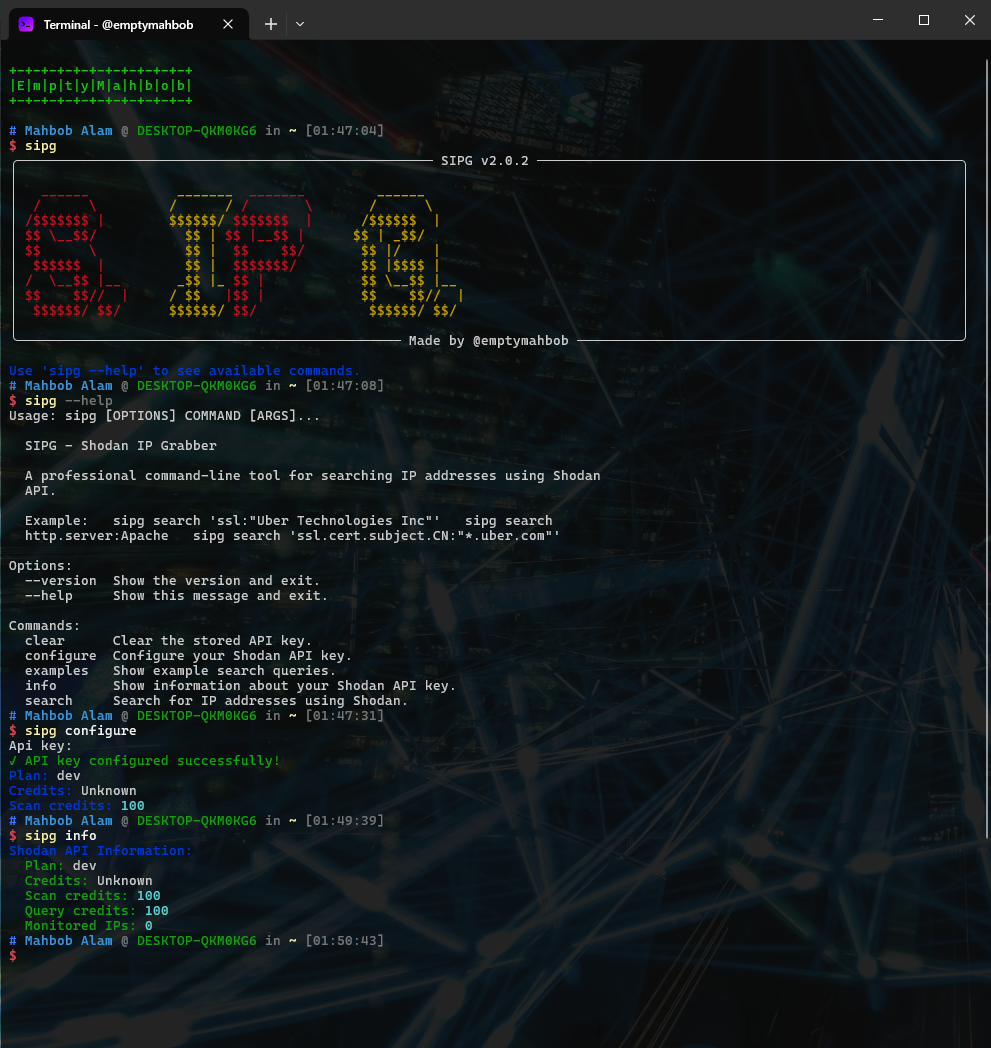
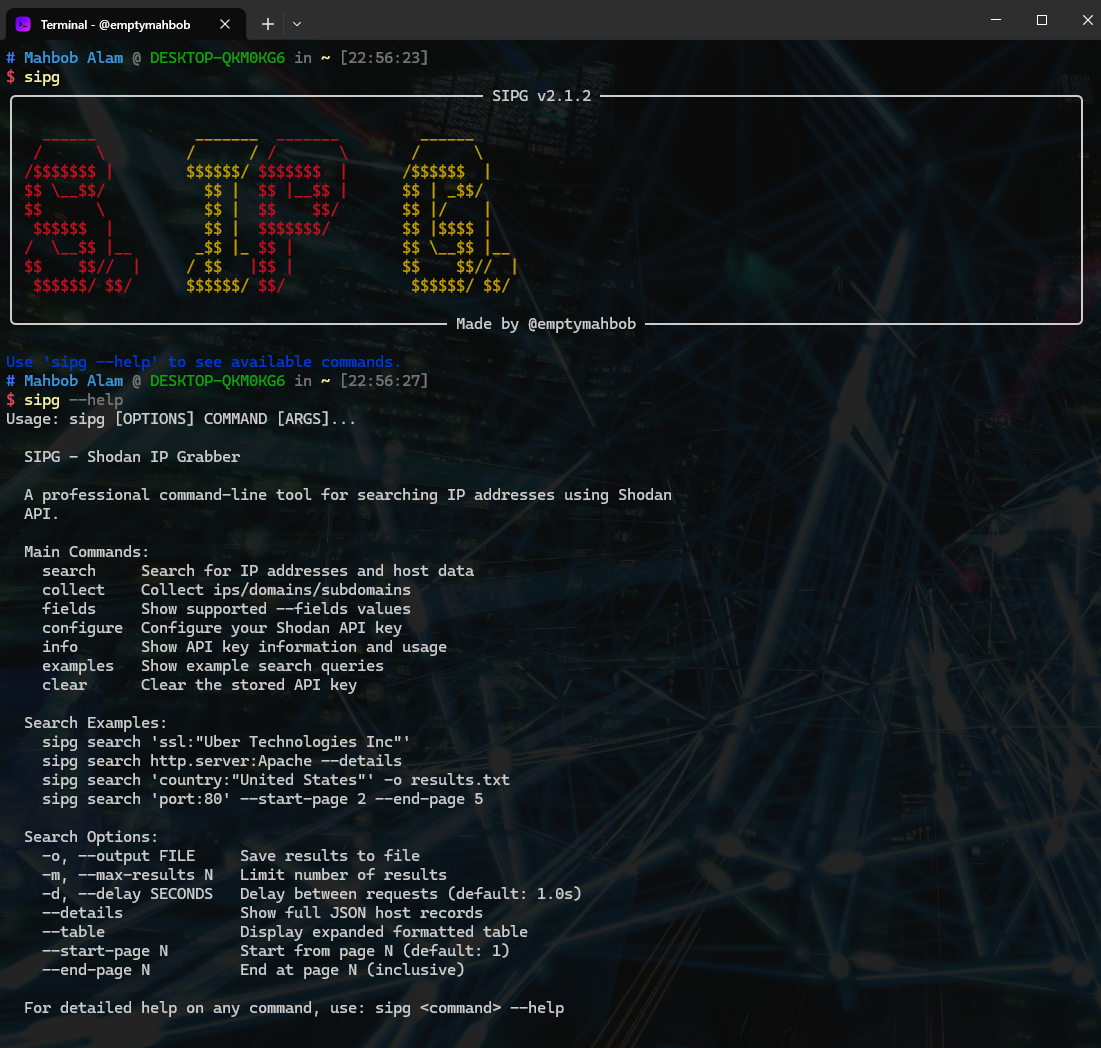
Update release summary, core fix, and assets
Refresh v2.1.2 release notes, keep important core indentation fix, and include updated banner/search result images.

Made-with: Cursor

diff --git a/sipg/core.py b/sipg/core.py
@@ -30,7 +30,7 @@ class ShodanAPIError(Exception):
 
 class ShodanIPGrabber:
     """Main class for Shodan IP grabbing functionality."""
-
+    
     DETAIL_FIELD_ALIASES: Dict[str, str] = {
         "ip": "ip_str",
         "ip_str": "ip_str",
@@ -87,7 +87,7 @@ class ShodanIPGrabber:
         api_min_interval: Optional[float] = None,
     ):
         """Initialize the Shodan IP Grabber.
-
+        
         Args:
             config: Configuration object. If None, creates a new one.
             api_min_interval: Minimum seconds between api.shodan.io requests (0 = no cap).
@@ -639,7 +639,7 @@ class ShodanIPGrabber:
                 return response.json()
             except ValueError as e:
                 raise ShodanAPIError(f"Invalid JSON response: {e}")
-
+    
         if last_error:
             msg = str(last_error).replace(self.config.get_api_key() or "", "<api_key>")
             raise ShodanAPIError(f"API request failed: {msg}")
@@ -654,17 +654,17 @@ class ShodanIPGrabber:
         end_page: Optional[int] = None,
     ) -> Iterator[str]:
         """Search for IP addresses using Shodan.
-
+        
         Args:
             query: Search query string.
             max_results: Maximum number of results to return. If None, returns all.
             delay: Delay between API requests in seconds.
             start_page: The first page to fetch (1-based).
             end_page: The last page to fetch (inclusive). If None, fetches up to the last available page.
-
+            
         Yields:
             IP addresses found.
-
+            
         Raises:
             ShodanAPIError: If the API request fails.
         """
@@ -675,38 +675,38 @@ class ShodanIPGrabber:
             )
 
         params = {"key": api_key, "query": query, "page": 1}
-
+        
         try:
             initial_response = self._make_request(
                 "https://api.shodan.io/shodan/host/search", params
             )
             total_results = initial_response.get("total", 0)
-
+            
             if total_results == 0:
                 self.console.print(
                     "[yellow]No results found for the given query.[/yellow]"
                 )
                 return
-
+            
             self.console.print(f"[green]Found {total_results} total results[/green]")
-
+            
             results_per_page = 100
             total_pages = (total_results + results_per_page - 1) // results_per_page
-
+            
             if max_results:
                 total_pages = min(
                     total_pages,
                     (max_results + results_per_page - 1) // results_per_page,
                 )
-
+            
             # Apply custom page range
             first_page = max(1, start_page)
             last_page = min(end_page if end_page else total_pages, total_pages)
             if first_page > last_page:
                 return
-
+            
             ip_count = 0
-
+            
             with Progress(
                 SpinnerColumn(),
                 TextColumn("[progress.description]{task.description}"),
@@ -715,7 +715,7 @@ class ShodanIPGrabber:
                 task = progress.add_task(
                     "Searching IPs...", total=last_page - first_page + 1
                 )
-
+                
                 for page in range(first_page, last_page + 1):
                     progress.update(
                         task, description=f"Searching page {page}/{last_page}"
@@ -739,13 +739,13 @@ class ShodanIPGrabber:
             raise
         except Exception as e:
             raise ShodanAPIError(f"Unexpected error: {e}")
-
+    
     def _is_valid_ipv4(self, ip: str) -> bool:
         """Check if an IP address is a valid IPv4 address.
-
+        
         Args:
             ip: IP address string.
-
+            
         Returns:
             True if valid IPv4, False otherwise.
         """
@@ -753,7 +753,7 @@ class ShodanIPGrabber:
             return ipaddress.ip_address(ip).version == 4
         except ValueError:
             return False
-
+    
     def search_with_details(
         self,
         query: str,
@@ -763,14 +763,14 @@ class ShodanIPGrabber:
         end_page: Optional[int] = None,
     ) -> Iterator[Dict[str, Any]]:
         """Search for IP addresses with additional details.
-
+        
         Args:
             query: Search query string.
             max_results: Maximum number of results to return.
             delay: Delay between API requests in seconds.
             start_page: The first page to fetch (1-based).
             end_page: The last page to fetch (inclusive). If None, fetches up to the last available page.
-
+            
         Yields:
             Dictionary containing IP and additional details.
         """
@@ -781,38 +781,38 @@ class ShodanIPGrabber:
             )
 
         params = {"key": api_key, "query": query, "page": 1}
-
+        
         try:
             initial_response = self._make_request(
                 "https://api.shodan.io/shodan/host/search", params
             )
             total_results = initial_response.get("total", 0)
-
+            
             if total_results == 0:
                 self.console.print(
                     "[yellow]No results found for the given query.[/yellow]"
                 )
                 return
-
+            
             self.console.print(f"[green]Found {total_results} total results[/green]")
-
+            
             results_per_page = 100
             total_pages = (total_results + results_per_page - 1) // results_per_page
-
+            
             if max_results:
                 total_pages = min(
                     total_pages,
                     (max_results + results_per_page - 1) // results_per_page,
                 )
-
+            
             # Apply custom page range
             first_page = max(1, start_page)
             last_page = min(end_page if end_page else total_pages, total_pages)
             if first_page > last_page:
                 return
-
+            
             result_count = 0
-
+            
             with Progress(
                 SpinnerColumn(),
                 TextColumn("[progress.description]{task.description}"),
@@ -821,7 +821,7 @@ class ShodanIPGrabber:
                 task = progress.add_task(
                     "Searching details...", total=last_page - first_page + 1
                 )
-
+                
                 for page in range(first_page, last_page + 1):
                     progress.update(
                         task, description=f"Searching page {page}/{last_page}"
@@ -845,19 +845,19 @@ class ShodanIPGrabber:
             raise
         except Exception as e:
             raise ShodanAPIError(f"Unexpected error: {e}")
-
+    
     def display_results_table(
         self, results: List[Dict[str, Any]], fields: Optional[List[str]] = None
     ) -> None:
         """Display results in a formatted table.
-
+        
         Args:
             results: List of result dictionaries.
         """
         if not results:
             self.console.print("[yellow]No results to display.[/yellow]")
             return
-
+        
         normalized_fields = self._normalize_fields(fields) or self.DEFAULT_TABLE_FIELDS
         header_map = {
             "ip_str": "IP",
@@ -880,21 +880,21 @@ class ShodanIPGrabber:
         table = Table(title="Shodan Search Results")
         for field in normalized_fields:
             table.add_column(header_map.get(field, field.upper()))
-
+        
         for result in results:
             row = [
                 self._get_detail_field_value(result, field)
                 for field in normalized_fields
             ]
             table.add_row(*row)
-
+        
         self.console.print(table)
-
+    
     def save_results_to_file(
         self, results: List[str], filename: str, add_protocol: bool = False
     ) -> None:
         """Save results to a file.
-
+        
         Args:
             results: List of IP addresses.
             filename: Output filename.
@@ -946,7 +946,7 @@ class ShodanIPGrabber:
             self.console.print(f"[green]Results saved to {filename}[/green]")
         except IOError as e:
             self.console.print(f"[red]Failed to save results: {e}[/red]")
-
+    
     def save_detailed_results_to_file(
         self,
         results: List[Dict[str, Any]],
@@ -984,16 +984,16 @@ class ShodanIPGrabber:
 
     def get_api_info(self) -> Dict[str, Any]:
         """Get information about the current API key.
-
+        
         Returns:
             Dictionary containing API information.
-
+            
         Raises:
             ShodanAPIError: If the API request fails.
         """
         api_key = self.config.get_api_key()
         if not api_key:
             raise ShodanAPIError("No API key configured.")
-
+        
         params = {"key": api_key}
         return self._make_request("https://api.shodan.io/api-info", params)

diff --git a/RELEASE_SUMMARY.md b/RELEASE_SUMMARY.md
@@ -1,51 +1,56 @@
-# SIPG v2.0.2 Release Summary
+# SIPG v2.1.2 Release Summary
 
-## 🎯 Release Goal
-Fix CLI argument parsing issues that prevented users from using complex Shodan queries with spaces and special characters.
+## Release Goal
+Deliver a major usability and capability upgrade so SIPG works strongly in both API-key and no-key workflows, with better collection options, output control, and reliability.
 
-## ✅ Completed Tasks
+## Highlights
+- Added dual-mode operation: `api` mode and `free` mode.
+- Upgraded free mode to deep, ipfinder-style collection behavior for larger no-key IP collection.
+- Added dedicated `collect` command with `txt`, `json`, and `csv` export formats.
+- Added field customization support with `--fields` and a new `fields` helper command.
+- Simplified command usage with short aliases and short flags.
 
-### 1. **Fixed Core Issue**
-- **Problem**: `sipg search "ssl:"Uber Technologies Inc""` was failing with "Got unexpected extra arguments"
-- **Root Cause**: CLI was using `nargs=-1` which split quoted strings into multiple arguments
-- **Solution**: Changed to `type=str` to handle entire query as single string
-- **Result**: ✅ All complex queries now work perfectly
+## Key Features Added
+- New `sipg collect` command for collecting:
+  - `ips`
+  - `domains`
+  - `subdomains`
+  - `all`
+- New `--fields` support:
+  - `search`: customize table columns and CSV schema.
+  - `collect`: customize CSV schema (`type,value`).
+- New `sipg fields` command:
+  - Human-readable field list.
+  - `--json` machine-readable output for scripts/automation.
+- Added short command aliases:
+  - `s`, `c`, `cfg`, `i`, `ex`, `cl`, `fs`
+- Added short flag forms for common options (for faster CLI usage).
 
-### 2. **Updated Documentation**
-- Fixed all examples in CLI help text
-- Updated `examples` command output
-- Corrected main CLI docstring
-- Updated version numbers across all files
+## Reliability and Behavior Improvements
+- Improved no-key facet parsing for current Shodan HTML structures.
+- Added stronger retry/backoff behavior for transient network/API issues.
+- Better handling and messaging for `401`, `403`, `429`, and `503` responses.
+- Free deep IP collection now streams results progressively.
+- Removed noisy free-mode progress text; output is cleaner and more automation-friendly.
+- Restored concise total result summaries (while keeping `--silent` truly minimal).
 
-### 3. **Version Management**
-- Updated version to 2.0.2 in:
-  - `sipg/__init__.py`
-  - `sipg/cli.py` (version option and banner)
-  - `setup.py`
-  - `pyproject.toml`
-  - `CHANGELOG.md`
+## UX and Documentation
+- Simplified mode choices to `api` and `free` (`free` now covers deep behavior).
+- Improved `search --details` and `search --table` output usefulness.
+- README fully updated with new commands, aliases, options, and examples.
+- `.gitignore` updated to exclude local/dev/output artifacts more safely.
 
-### 4. **Testing**
-- ✅ Tested `sipg search 'ssl:"Uber Technologies Inc"'` - Found 41 results
-- ✅ Tested `sipg search 'ssl.cert.subject.CN:"*.uber.com"'` - Found 36 results
-- ✅ Tested `sipg search http.server:Apache` - No results but no errors
-- ✅ All examples now show correct syntax
+## Version and Packaging
+- Version bumped to `2.1.2` in project metadata and CLI output.
+- Build validation completed:
+  - `twine check dist/*` passed for wheel and sdist.
+  - Fresh virtual environment install from wheel succeeded.
+  - CLI smoke checks (`--version`, `--help`, alias help, `fields --json`) succeeded.
 
-### 5. **GitHub Release**
-- ✅ Committed all changes
-- ✅ Created git tag v2.0.2
-- ✅ Pushed to GitHub
-- ✅ Created release notes
+## Testing
+- Test coverage updated for new implementations and behavior paths, including CLI/config changes tied to this release.
 
-## 📦 Build Status
-- ✅ Successfully built sdist and wheel
-- ✅ Ready for PyPI upload
-- ✅ Ready for Test PyPI upload
-
-## 🚀 Next Steps
-1. Upload to Test PyPI (when ready)
-2. Upload to PyPI (when ready)
-3. Create GitHub release using the provided release notes
-
-## 🎉 Impact
-Users can now use any Shodan query syntax without CLI parsing errors, making the tool much more powerful and user-friendly.
+## Release Status
+- Changes committed and pushed to `main`.
+- Tag `v2.1.2` created and pushed.
+- Ready for GitHub Release publishing and PyPI/TestPyPI publishing workflows.
